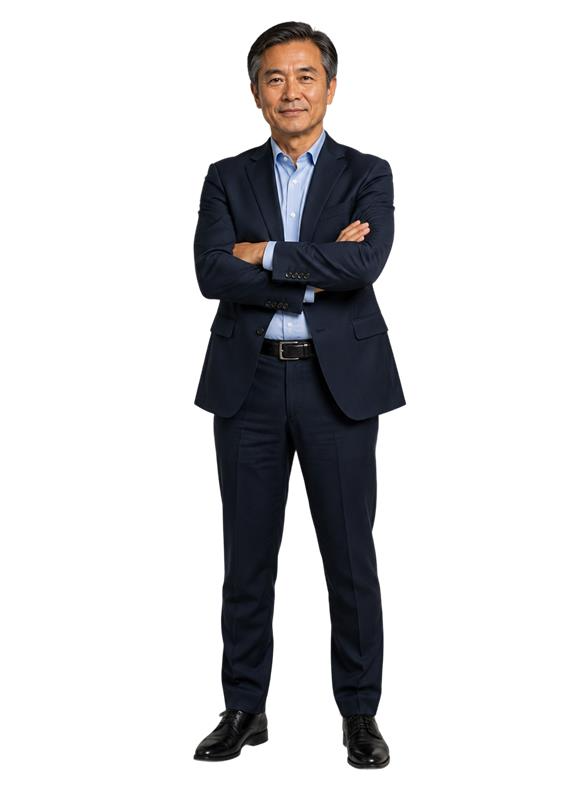
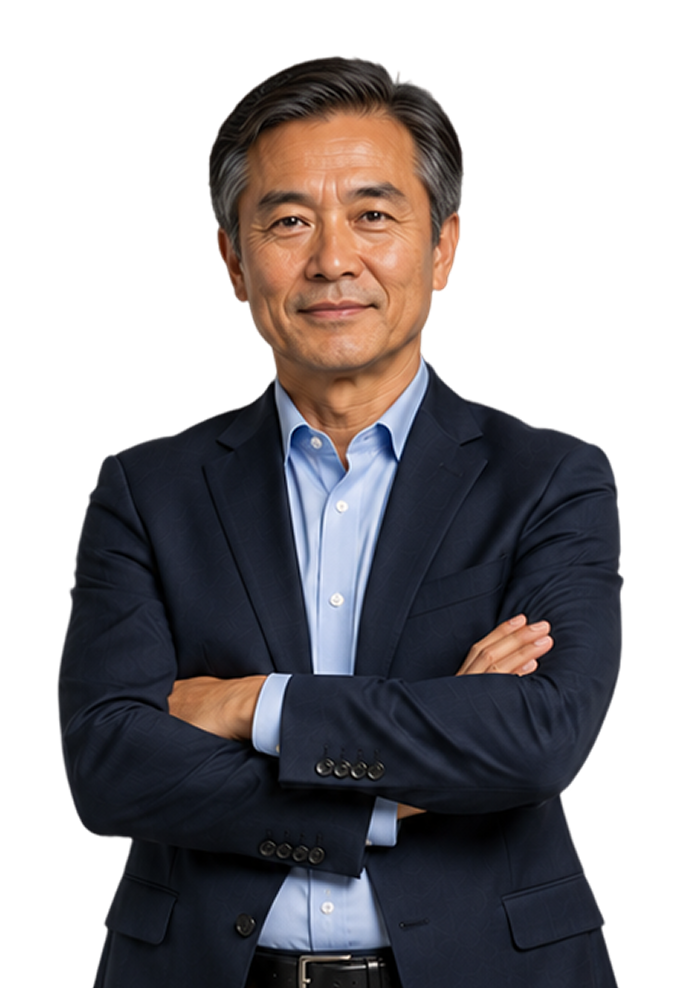
E&R personae: V2 portraits on listing cards like operator
Import May 2026 persona pack into full + portrait assets and wire
listing URLs for all E&R slugs (including social-experiencer).

- Remote Lifestyler, Optimizer, Pro Active Achiever, Family Hero,
  Client (Jordan), Social Experiencer from zip V2 files.
- Replace BoKPortraitCard initials with PersonaPortraitCard so
  /er/personae matches operator photo treatment.
- Privacy Seeker keeps prior editorial portrait (no V2 in zip).

diff --git a/src/app/er/personae/page.tsx b/src/app/er/personae/page.tsx
@@ -3,8 +3,7 @@ import { notFound } from 'next/navigation';
 import { headers } from 'next/headers';
 import { PersonaPortraitCard } from '@/components/catalogue/PersonaPortraitCard';
 import { Stagger, StaggerItem } from '@/components/motion/Stagger';
-import { ER_BOK_PERSONAS } from '@/lib/data/er';
-import { ER_CLIENT_BOK } from '@/lib/data/er';
+import { ER_BOK_PERSONAS, ER_CLIENT_BOK, erBoKAsPersona } from '@/lib/data/er';
 import { getCatalogueData } from '@/lib/notion';
 import { erPaths, readErLinkMode } from '@/lib/erNav';
 
@@ -17,6 +16,8 @@ export default async function ErPersonaePage() {
 
   const erLinkMode = readErLinkMode(headers());
   const operator = data.personas.find((p) => p.id === 'operator-work' && p.area === 'work');
+  const journeyTemplate = data.personas.find((p) => p.area === 'work' && p.id === 'white-collar');
+  if (!journeyTemplate) notFound();
 
   return (
     <div className="flex flex-1 flex-col" style={{ background: '#f4f6fb' }}>
@@ -61,7 +62,7 @@ export default async function ErPersonaePage() {
             <div className="mt-4 flex min-h-0 flex-1 items-center justify-center lg:mt-6">
               <img
                 src="/images/catalogue/assets/areas/er-area-info-iso.png"
-                alt="Energy & Resources isometric illustration — open-pit mining site"
+                alt="Energy & Resources isometric illustration — industrial campus"
                 className="max-h-full w-auto max-w-full object-contain"
                 loading="eager"
               />
@@ -86,24 +87,26 @@ export default async function ErPersonaePage() {
             </div>
 
             <Stagger className="mt-3 grid min-h-0 flex-1 grid-cols-2 gap-3 sm:grid-cols-3 sm:gap-4 lg:mt-4 lg:grid-cols-4">
-              {ER_BOK_PERSONAS.map((bp) => (
-                <StaggerItem key={bp.id} className="min-h-0">
-                  <BoKPortraitCard
-                    href={erPaths.persona(erLinkMode, bp.id)}
-                    profileKey={bp.profileKey}
-                    name={bp.name}
-                    role={bp.role}
-                    teaser={bp.generalDescription}
-                  />
-                </StaggerItem>
-              ))}
+              {ER_BOK_PERSONAS.map((bp) => {
+                const display = erBoKAsPersona(bp, journeyTemplate);
+                return (
+                  <StaggerItem key={bp.id} className="min-h-0">
+                    <PersonaPortraitCard
+                      persona={display}
+                      href={erPaths.persona(erLinkMode, bp.id)}
+                      areaConfig={work}
+                    />
+                  </StaggerItem>
+                );
+              })}
               <StaggerItem key="client" className="min-h-0">
-                <BoKPortraitCard
+                <PersonaPortraitCard
+                  persona={{
+                    ...erBoKAsPersona(ER_CLIENT_BOK, journeyTemplate),
+                    profileEyebrow: 'E&R · Client',
+                  }}
                   href={erPaths.persona(erLinkMode, 'client')}
-                  profileKey={ER_CLIENT_BOK.profileKey}
-                  name={ER_CLIENT_BOK.name}
-                  role={ER_CLIENT_BOK.role}
-                  teaser={ER_CLIENT_BOK.generalDescription}
+                  areaConfig={work}
                 />
               </StaggerItem>
               {operator ? (
@@ -118,61 +121,6 @@ export default async function ErPersonaePage() {
             </Stagger>
           </section>
         </div>
-      </div>
-    </div>
-  );
-}
-
-function BoKPortraitCard({
-  href,
-  profileKey,
-  name,
-  role,
-  teaser,
-}: {
-  href: string;
-  profileKey: string;
-  name: string;
-  role: string;
-  teaser: string;
-}) {
-  return (
-    <div
-      className="group relative flex h-full min-h-0 flex-col overflow-hidden rounded-3xl bg-[var(--surface-card)] transition-[transform,box-shadow] duration-[var(--motion-base)] ease-[var(--ease-out-quint)] hover:-translate-y-1 hover:shadow-[var(--shadow-hover)]"
-      style={{ boxShadow: 'var(--shadow-tile)' }}
-    >
-      <Link
-        href={href}
-        className="absolute inset-0 z-10 focus-visible:outline focus-visible:outline-2 focus-visible:outline-offset-[-2px] focus-visible:outline-[var(--blue-primary)]"
-        aria-label={`Open ${name} profile`}
-      />
-      <div className="relative min-h-0 flex-1 overflow-hidden bg-gradient-to-br from-[#0f2744] via-[#123a5c] to-[#0d3d35] p-4">
-        <div
-          className="pointer-events-none absolute inset-0 opacity-40"
-          style={{
-            backgroundImage:
-              'radial-gradient(circle, rgba(255,255,255,0.14) 1px, transparent 1px)',
-            backgroundSize: '10px 10px',
-          }}
-          aria-hidden
-        />
-        <span className="relative z-[1] rounded-full bg-white/15 px-2 py-0.5 text-[9px] font-bold uppercase tracking-[0.14em] text-white/85">
-          {profileKey}
-        </span>
-        <div className="relative z-[1] mt-6 flex h-16 w-16 items-center justify-center rounded-full text-xl font-extrabold text-white shadow-lg ring-2 ring-white/30">
-          {name[0]}
-        </div>
-        <p className="relative z-[1] mt-4 truncate text-lg font-extrabold text-white">{name}</p>
-        <p className="relative z-[1] truncate text-xs font-medium text-white/80">{role}</p>
-        <p className="relative z-[1] mt-2 line-clamp-3 text-xs leading-relaxed text-white/75">{teaser}</p>
-      </div>
-      <div className="flex flex-shrink-0 items-center justify-between gap-2 border-t border-[var(--grey-border)] bg-white px-4 py-2.5">
-        <span className="text-[10px] font-bold uppercase tracking-[0.12em] text-[var(--blue-primary)]">
-          Open journey
-        </span>
-        <span className="text-[var(--blue)]/50 transition-transform group-hover:translate-x-0.5" aria-hidden>
-          →
-        </span>
       </div>
     </div>
   );

diff --git a/src/lib/data/personaAssetUrls.ts b/src/lib/data/personaAssetUrls.ts
@@ -38,6 +38,7 @@ export const PERSONA_FACE_URL: Record<string, string> = {
   "optimizer": "/images/catalogue/assets/personae/full/optimizer.png",
   "proactive-achiever": "/images/catalogue/assets/personae/full/proactive-achiever.png",
   "family-hero": "/images/catalogue/assets/personae/full/family-hero.png",
+  "social-experiencer": "/images/catalogue/assets/personae/full/social-experiencer.png",
   "privacy-seeker": "/images/catalogue/assets/personae/full/privacy-seeker.png",
   // ── E&R Client (Jordan, IFM sponsor) — synthetic persona slug is `client` ──
   "client": "/images/catalogue/assets/personae/full/er-client.png",
@@ -74,6 +75,7 @@ export const PERSONA_FULL_URL: Record<string, string> = {
   "optimizer": "/images/catalogue/assets/personae/full/optimizer.png",
   "proactive-achiever": "/images/catalogue/assets/personae/full/proactive-achiever.png",
   "family-hero": "/images/catalogue/assets/personae/full/family-hero.png",
+  "social-experiencer": "/images/catalogue/assets/personae/full/social-experiencer.png",
   "privacy-seeker": "/images/catalogue/assets/personae/full/privacy-seeker.png",
   // ── E&R Client (Jordan, IFM sponsor) — synthetic persona slug is `client` ──
   "client": "/images/catalogue/assets/personae/full/er-client.png",
@@ -105,4 +107,12 @@ export const PERSONA_LISTING_URL: Record<string, string> = {
   "vip-guest": "/images/catalogue/assets/personae/portrait/vip-guest.png",
   "white-collar": "/images/catalogue/assets/personae/portrait/white-collar.png",
   "exemple-minor": "/images/catalogue/assets/personae/portrait/white-collar.png",
+  // ── E&R personae listing cards (`/er/personae`) — reuse full editorial portraits ──
+  "remote-lifestyler": "/images/catalogue/assets/personae/portrait/remote-lifestyler.png",
+  "optimizer": "/images/catalogue/assets/personae/portrait/optimizer.png",
+  "proactive-achiever": "/images/catalogue/assets/personae/portrait/proactive-achiever.png",
+  "family-hero": "/images/catalogue/assets/personae/portrait/family-hero.png",
+  "social-experiencer": "/images/catalogue/assets/personae/portrait/social-experiencer.png",
+  "privacy-seeker": "/images/catalogue/assets/personae/portrait/privacy-seeker.png",
+  "client": "/images/catalogue/assets/personae/portrait/er-client.png",
 };
